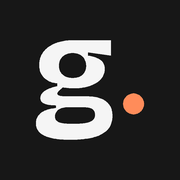
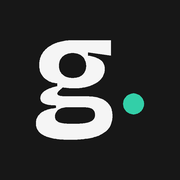
feat(brand): glob.ui wordmark in teal
The wordmark reads "glob.ui": "glob" in the text colour, then the dot and
"ui" in teal. The favicon keeps the "g" and dot, with a teal dot. Logos,
favicons, the app icons and og.png are regenerated.

Changed region(s): [[0.6667, 0.5, 0.8056, 0.6389]]

diff --git a/apps/docs/components/logo-mark.tsx b/apps/docs/components/logo-mark.tsx
@@ -1,18 +1,18 @@
 // Generated by scripts/brand/generate-brand.py. Do not edit by hand.
 import type { SVGProps } from "react"
 
-/** The GlobUI wordmark. Colours come from the --glob-* tokens, so it follows light and dark themes. */
-export function GlobUILogo({ title = "GlobUI", ...props }: SVGProps<SVGSVGElement> & { title?: string }) {
+/** The glob.ui wordmark. Colours come from the --glob-* tokens, so it follows light and dark themes. */
+export function GlobUILogo({ title = "glob.ui", ...props }: SVGProps<SVGSVGElement> & { title?: string }) {
   return (
     <svg
-      viewBox="-14.67 -762.00 3185.17 984.50"
+      viewBox="-14.67 -762.00 3196.67 984.50"
       role="img"
       aria-label={title}
       {...props}
     >
       <title>{title}</title>
       <path fill="var(--glob-text)" d="M274.17 182.5Q187.67 182.5 132.17 169.25Q76.67 156 51 129.67Q25.33 103.33 25.33 65.5Q25.33 19.5 61.67 -9.67Q98 -38.83 169.67 -44.33V-64.83Q115 -64.67 86.25 -76.17Q57.5 -87.67 57.5 -116.67Q57.5 -144.33 86 -166.25Q114.5 -188.17 179.5 -202V-222.5Q119 -226.5 83.92 -262Q48.83 -297.5 48.83 -355.17Q48.83 -404.83 76.75 -444.58Q104.67 -484.33 159.67 -507.83Q214.67 -531.33 296 -531.33H562.5V-421.33L397.5 -444V-421.17Q460.67 -411.5 489.33 -388.58Q518 -365.67 518 -325.17Q518 -284.5 491.08 -253.25Q464.17 -222 414.5 -204.5Q364.83 -187 295.33 -187Q282.83 -187 268.25 -188.08Q253.67 -189.17 217.83 -193.17Q199.17 -178.33 188.33 -167.75Q177.5 -157.17 177.5 -148.33Q177.5 -141.17 185.08 -136.58Q192.67 -132 205.25 -130.42Q217.83 -128.83 230.83 -128.83H381Q401 -128.83 433 -126Q465 -123.17 497 -110.17Q529 -97.17 551.08 -68.58Q573.17 -40 573.17 12.33Q573.17 70.17 540.42 108.25Q507.67 146.33 441.42 164.42Q375.17 182.5 274.17 182.5ZM290.67 67.67Q350.67 67.67 385.08 61.08Q419.5 54.5 433.75 40.17Q448 25.83 448 4.83Q448 -15.17 439.42 -26.67Q430.83 -38.17 417.58 -42.67Q404.33 -47.17 390.67 -48.25Q377 -49.33 367.5 -49.33H241.67Q199.33 -46.17 180.75 -27.33Q162.17 -8.5 162.17 15Q162.17 36.33 176.08 47.75Q190 59.17 218.5 63.42Q247 67.67 290.67 67.67ZM288.17 -261.67Q336.17 -261.67 360.33 -285.42Q384.5 -309.17 384.5 -346.5Q384.5 -386.83 359.83 -412.83Q335.17 -438.83 288.17 -438.83Q242 -438.83 216.33 -413.17Q190.67 -387.5 190.67 -347.5Q190.67 -322.67 202 -303.17Q213.33 -283.67 234.83 -272.67Q256.33 -261.67 288.17 -261.67ZM657.17 0V-715.17H798.33V0ZM1159 13.67Q1080.67 13.67 1020.42 -17.67Q960.17 -49 926 -110.75Q891.83 -172.5 891.83 -264Q891.83 -356.33 926.42 -417.33Q961 -478.33 1021.58 -508.67Q1082.17 -539 1159.5 -539Q1237.17 -539 1297.83 -507.92Q1358.5 -476.83 1393 -415.5Q1427.5 -354.17 1427.5 -262.17Q1427.5 -168.67 1392.33 -107.17Q1357.17 -45.67 1296.17 -16Q1235.17 13.67 1159 13.67ZM1163.67 -92.83Q1202.67 -92.83 1229.25 -111Q1255.83 -129.17 1269.5 -165.5Q1283.17 -201.83 1283.17 -254Q1283.17 -309 1268.58 -347.5Q1254 -386 1225.83 -406.75Q1197.67 -427.5 1155 -427.5Q1118 -427.5 1090.92 -409.58Q1063.83 -391.67 1050.08 -355.58Q1036.33 -319.5 1036.33 -266Q1036.33 -181 1070.17 -136.92Q1104 -92.83 1163.67 -92.83ZM1837.67 13.67Q1787.67 13.67 1750.75 -5.58Q1713.83 -24.83 1690.75 -61.92Q1667.67 -99 1659 -151.83H1640.83L1639.83 0H1520.17V-257.83V-715.17H1663.83V-543.17Q1663.83 -518.83 1660.58 -491.75Q1657.33 -464.67 1652.17 -435.58Q1647 -406.5 1641.5 -374.33H1663Q1676.33 -425.67 1698.75 -461.83Q1721.16 -498 1755.91 -517.67Q1790.66 -537.33 1839.33 -537.33Q1905.17 -537.33 1953.17 -503.17Q2001.16 -469 2027.75 -406.83Q2054.33 -344.67 2054.33 -259.33Q2054.33 -176.83 2028.33 -115.5Q2002.33 -54.17 1954 -20.25Q1905.67 13.67 1837.67 13.67ZM1787.33 -103.67Q1822.67 -103.67 1849 -123.33Q1875.33 -143 1889.5 -178.83Q1903.67 -214.67 1903.67 -262.83Q1903.67 -311.33 1890 -346.58Q1876.33 -381.83 1851.17 -401.67Q1826 -421.5 1790.17 -421.5Q1765.83 -421.5 1745.67 -412.33Q1725.5 -403.17 1710.42 -387.42Q1695.33 -371.67 1684.75 -352.25Q1674.17 -332.83 1668.92 -312Q1663.67 -291.17 1663.67 -271.83V-253Q1663.67 -230 1670.83 -203.92Q1678 -177.83 1693.08 -155.17Q1708.17 -132.5 1731.58 -118.08Q1755 -103.67 1787.33 -103.67Z" />
-      <path fill="var(--glob-primary)" d="M2326.5 13Q2238.5 13 2193.5 -47.75Q2148.5 -108.5 2148.5 -231V-520H2258V-241.5Q2258 -160.5 2283 -120.25Q2308 -80 2362 -80Q2392 -80 2415.25 -94.75Q2438.5 -109.5 2456 -136.5Q2473.5 -163.5 2484 -200.25Q2494.5 -237 2498 -281.5V-520H2606.5V-216V0H2514L2519 -165H2502Q2489 -103.5 2465.5 -63.75Q2442 -24 2407.5 -5.5Q2373 13 2326.5 13ZM2746 0V-520H2854.5V0ZM2800.25 -606Q2765.75 -606 2747.38 -620.75Q2729 -635.5 2729 -663.5Q2729 -692.37 2747.25 -707.19Q2765.5 -722 2800.37 -722Q2836 -722 2854.25 -707.25Q2872.5 -692.49 2872.5 -664.5Q2872.5 -635.5 2854 -620.75Q2835.5 -606 2800.25 -606ZM2981 -74.75A74.75 74.75 0 1 0 3130.5 -74.75A74.75 74.75 0 1 0 2981 -74.75Z" />
+      <path fill="var(--glob-primary-text)" d="M2142 -74.75A74.75 74.75 0 1 0 2291.5 -74.75A74.75 74.75 0 1 0 2142 -74.75ZM2596 13Q2508 13 2463 -47.75Q2418 -108.5 2418 -231V-520H2527.5V-241.5Q2527.5 -160.5 2552.5 -120.25Q2577.5 -80 2631.5 -80Q2661.5 -80 2684.75 -94.75Q2708 -109.5 2725.5 -136.5Q2743 -163.5 2753.5 -200.25Q2764 -237 2767.5 -281.5V-520H2876V-216V0H2783.5L2788.5 -165H2771.5Q2758.5 -103.5 2735 -63.75Q2711.5 -24 2677 -5.5Q2642.5 13 2596 13ZM3015.5 0V-520H3124V0ZM3069.75 -606Q3035.25 -606 3016.88 -620.75Q2998.5 -635.5 2998.5 -663.5Q2998.5 -692.37 3016.75 -707.19Q3035 -722 3069.87 -722Q3105.5 -722 3123.75 -707.25Q3142 -692.49 3142 -664.5Q3142 -635.5 3123.5 -620.75Q3105 -606 3069.75 -606Z" />
     </svg>
   )
 }

diff --git a/apps/docs/lib/layout.shared.tsx b/apps/docs/lib/layout.shared.tsx
@@ -7,7 +7,7 @@ export function baseOptions(): BaseLayoutProps {
   return {
     nav: {
       // The title is wrapped in the nav link to "/"; the logo's title is its accessible name.
-      title: <GlobUILogo title="GlobUI home" className="h-6 w-auto" />,
+      title: <GlobUILogo title="glob.ui home" className="h-6 w-auto" />,
     },
     links: [
       { text: "Docs", url: "/docs" },

diff --git a/scripts/brand/generate-brand.py b/scripts/brand/generate-brand.py
@@ -1,9 +1,12 @@
 #!/usr/bin/env python3
 """Generates the GlobUI brand files from the Bricolage Grotesque font (SIL OFL 1.1).
 
-Wordmark: "glob" (weight 700, text colour) + "ui" (weight 500, primary orange) + an orange dot on
-the baseline the size of a full stop. Letters are outlined to paths, so the output has no font
-dependency.
+Wordmark: "glob" (weight 700, text colour) + a dot + "ui" (weight 500), the dot and "ui" in the primary
+colour. The dot is the size of a full stop, on the baseline, with the same gap on each side. Letters are
+outlined to paths, so the output has no font dependency.
+
+The primary is teal (the Globin teal). On white it is too light for text, so the light wordmark uses the
+darker text teal (--glob-primary-text); on dark it uses the fill teal (--glob-primary).
 
 Outputs (apps/docs/public/brand/ and apps/docs/components/):
   logo-light.svg, logo-dark.svg          wordmark for light and dark backgrounds
@@ -33,9 +36,12 @@ FONT = os.path.join(HERE, "fonts", "BricolageGrotesque-latin-wght.woff2")
 PUBLIC = os.path.join(ROOT, "apps", "docs", "public", "brand")
 COMPONENTS = os.path.join(ROOT, "apps", "docs", "components")
 
-# Colours: the --glob-* tokens of packages/styles/glob-ui.css.
-LIGHT = {"text": "#171717", "primary": "#FF6B35"}
-DARK = {"text": "#F5F5F5", "primary": "#FF8C5A"}
+# Colours: the --glob-* tokens of packages/styles/glob-ui.css. The light primary is --glob-primary-text (4.9:1 on
+# white); the dark primary is --glob-primary (10:1 on the dark surface). The logo component uses the text token,
+# which resolves to the same value in each theme.
+LIGHT = {"text": "#171717", "primary": "#0F7F68"}
+DARK = {"text": "#F5F5F5", "primary": "#33CFA8"}
+LOGO_LABEL = "glob.ui"
 FAVICON_BG = "#171717"
 OG_BG = "#0A0A0A"
 OG_TAGLINE = "#A3A3A3"  # --glob-text-secondary, dark
@@ -239,10 +245,11 @@ def dot_for_text(x, color):
 
 
 def wordmark(colors):
-    """'glob' + 'ui' + dot, in font units (baseline y = 0)."""
+    """'glob' + dot + 'ui', in font units (baseline y = 0). The dot has DOT_GAP on each side."""
     glob, x = layout("glob", 700, 0, colors["text"])
-    ui, x = layout("ui", 500, x, colors["primary"])
-    return glob + ui + [dot_for_text(x, colors["primary"])]
+    dot = dot_for_text(x, colors["primary"])
+    ui, _ = layout("ui", 500, dot.cx + dot.r + DOT_GAP, colors["primary"])
+    return glob + [dot] + ui
 
 
 def logo_svg(colors, name):
@@ -251,7 +258,7 @@ def logo_svg(colors, name):
     pad = 40
     vb = (x0 - pad, -y1 - pad, (x1 - x0) + 2 * pad, (y1 - y0) + 2 * pad)
     scale, tx, ty = 1, 0, 0
-    svg = svg_document(ops, scale, tx, ty, vb, label="GlobUI", title="GlobUI")
+    svg = svg_document(ops, scale, tx, ty, vb, label=LOGO_LABEL, title=LOGO_LABEL)
     with open(os.path.join(PUBLIC, name), "w") as f:
         f.write(svg)
     return ops, vb
@@ -259,8 +266,8 @@ def logo_svg(colors, name):
 
 def logo_mark_tsx(ops, vb):
     """A React component with the same paths, coloured with the --glob-* tokens."""
-    colors = {"var(--glob-text)": [], "var(--glob-primary)": []}
-    token = {LIGHT["text"]: "var(--glob-text)", LIGHT["primary"]: "var(--glob-primary)"}
+    colors = {"var(--glob-text)": [], "var(--glob-primary-text)": []}
+    token = {LIGHT["text"]: "var(--glob-text)", LIGHT["primary"]: "var(--glob-primary-text)"}
     for op in ops:
         d = dot_d(op, 1, 0, 0) if isinstance(op, Dot) else glyph_d(op, 1, 0, 0)
         colors[token[op.color]].append(d)
@@ -270,8 +277,8 @@ def logo_mark_tsx(ops, vb):
     return f"""// Generated by scripts/brand/generate-brand.py. Do not edit by hand.
 import type {{ SVGProps }} from "react"
 
-/** The GlobUI wordmark. Colours come from the --glob-* tokens, so it follows light and dark themes. */
-export function GlobUILogo({{ title = "GlobUI", ...props }}: SVGProps<SVGSVGElement> & {{ title?: string }}) {{
+/** The glob.ui wordmark. Colours come from the --glob-* tokens, so it follows light and dark themes. */
+export function GlobUILogo({{ title = "{LOGO_LABEL}", ...props }}: SVGProps<SVGSVGElement> & {{ title?: string }}) {{
   return (
     <svg
       viewBox="{vb[0]:.2f} {vb[1]:.2f} {vb[2]:.2f} {vb[3]:.2f}"
